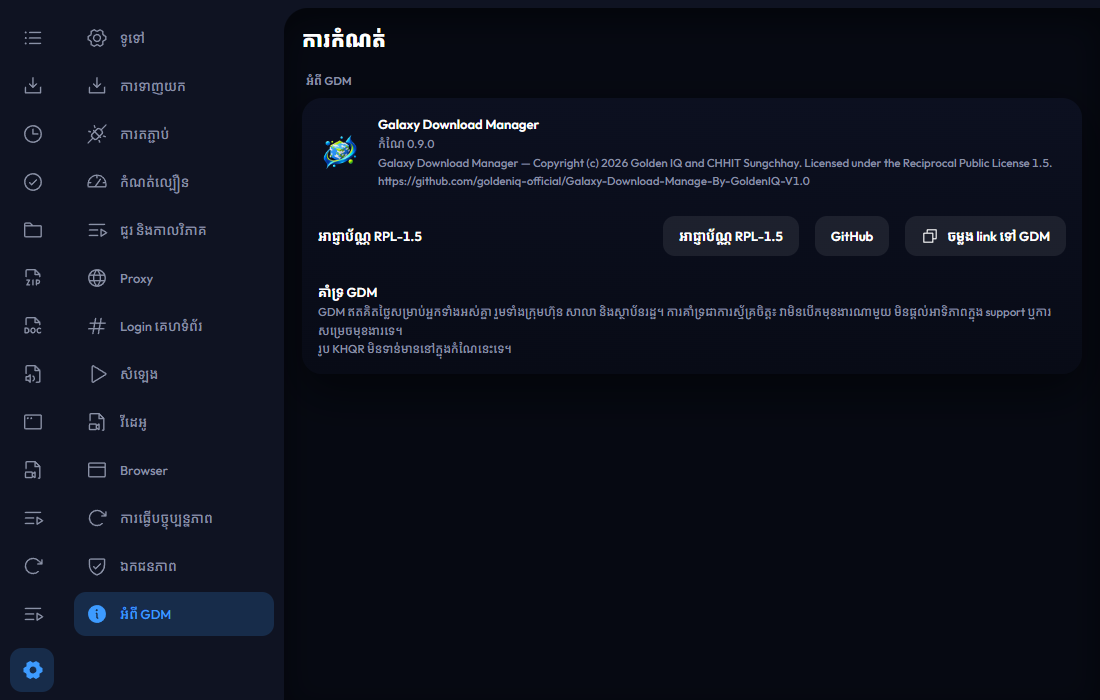
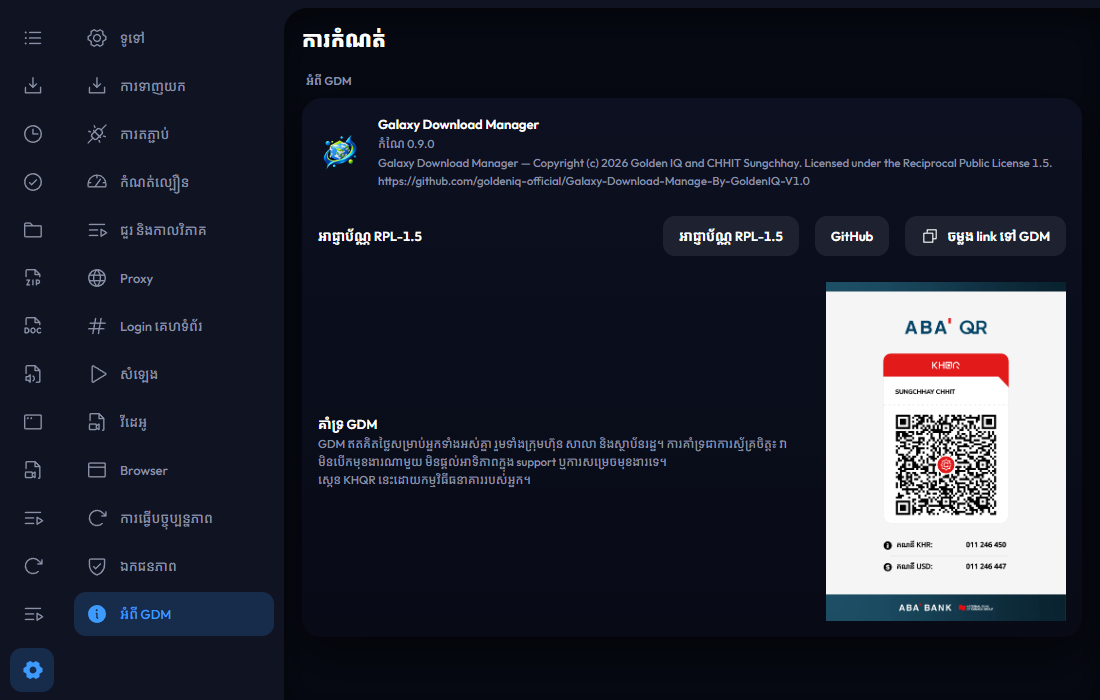
G8: owner's KHQR (ABA, SUNGCHHAY CHHIT) bundled at src/assets/khqr.png; shown in README and About (240 px, no network); test now always checks the image; evidence + decision

Changed region(s): [[0.2782, 0.39, 0.9891, 0.9], [0.2782, 0.6, 0.7109, 0.69]]

diff --git a/tests/ui.spec.ts b/tests/ui.spec.ts
@@ -238,7 +238,7 @@ test("G8 §21 M1: About shows the voluntary support block and loads nothing from
   await page.locator(".set .rail .nav").last().click();
   await expect(page.getByText("Support GDM")).toBeVisible();
   await expect(page.getByText(/unlocks no feature/)).toBeVisible();
-  if (process.env.G8_QR) await expect(page.locator("img[alt=KHQR]")).toBeVisible();
+  await expect(page.locator("img[alt=KHQR]")).toBeVisible();
   expect(outside).toEqual([]);
 });
 

diff --git a/src/Settings.tsx b/src/Settings.tsx
@@ -320,7 +320,7 @@ export function SettingsView() {
                 <small>{t("set.supportS")}</small>
                 <small>{t(KHQR ? "set.supportScan" : "set.supportNone")}</small>
               </div>
-              {KHQR && <img src={KHQR} alt="KHQR" width={180} height={180} />}
+              {KHQR && <img src={KHQR} alt="KHQR" width={240} height={339} />}
             </div>
           </Sec>}
         </div>

diff --git a/docs/evidence/G8.md b/docs/evidence/G8.md
@@ -47,4 +47,16 @@ Screenshot: `docs/evidence/g7-shots/set-about-km-{dark,light}.png` (folder probe
 - [x] ឯកសារ commit (README, About, services, sponsors, ចំណាំ OEM, PRIVACY)
 - [x] ពាក្យត្រូវ "ឥតគិតថ្លៃសម្រាប់គ្រប់គ្នា" និង LICENSE/NOTICE (council GO)
 - [x] Council ពិនិត្យរួច
-- [ ] រូប KHQR: រង់ចាំម្ចាស់ (មិនមែនលក្ខខណ្ឌ done របស់ G8; ការដាក់ = ចម្លងរូបទៅ `src/assets/khqr.png` + បើក comment ១ បន្ទាត់ក្នុង README)
+- [x] រូប KHQR: ម្ចាស់ផ្ដល់ `khqr.png` ថ្ងៃ 2026-11-13 (ABA KHQR, អ្នកទទួល SUNGCHHAY CHHIT = CHHIT Sungchhay សហម្ចាស់សិទ្ធិ, គណនី KHR និង USD) ⇒ `src/assets/khqr.png` (1010×1426, 156 KB), README បង្ហាញរូប, About 240×339 px
+
+## ក្រោយម្ចាស់ផ្ដល់ KHQR (2026-11-13)
+
+ម្ចាស់ដាក់ `khqr.png` នៅ root repo (ដូចគ្នានឹង `OneDrive\Pictures\khqr.png`, `cmp` SAME)។ ផ្លាស់ទៅ `src/assets/khqr.png`; README: បើកបន្ទាត់រូប; About: 180 px តូចពេកសម្រាប់ស្កេន ⇒ 240×339 (រក្សា ratio)។ Test `G8 §21 M1` ឥឡូវពិនិត្យ `<img alt=KHQR>` ជានិច្ច។
+
+| ពាក្យបញ្ជា | លទ្ធផល |
+|---|---|
+| `npx playwright test tests/ui.spec.ts -g "set-about\|G8"` | 5/5 PASS (រូបបង្ហាញ, គ្មាន request ក្រៅ origin, rule 8/axe/clip) |
+| `npx tsc --noEmit -p .`, `npx eslint src tests` | PASS |
+| `npx vite build` | PASS: `dist/assets/khqr-*.png` 156.17 kB (bundle ក្នុង app) |
+
+មិនបាន decode payload QR (គ្មាន decoder ដំឡើង, មិនបន្ថែម dependency): ពិនិត្យដោយភ្នែក (ឈ្មោះអ្នកទទួល, ABA, KHR/USD)។

diff --git a/docs/decisions.md b/docs/decisions.md
@@ -92,3 +92,4 @@
 | 2026-11-13 | G8 | រូប KHQR GDM មិនទាន់មាន (មានតែ KHQR Mazer Club = អ្នកទទួលផ្សេង) | មិនប្រើ QR ផ្សេង; README អត្ថបទតែប៉ុណ្ណោះ (comment បង្ហាញកន្លែងរូប); About បង្ហាញ "មិនទាន់មាន" ហើយរូបបង្ហាញស្វ័យប្រវត្តិពេលមាន <code>src/assets/khqr.png</code> (bundle ពេល build, គ្មាន network); សួរម្ចាស់ម្ដងនៅចុង goal | /goal G8 + council G8 r1 |
 | 2026-11-13 | G8 | ចំណាំ OEM/ហាង PC ដាក់ណា? | ផ្នែកមួយក្នុង <code>docs/services.md</code> (មិនបង្កើតឯកសារទី ៣): វាជាសេវាដូចគ្នា (M4 ⊂ សេវា) | Algorithm ជំហាន ២ |
 | 2026-11-13 | G8 | ពាក្យ "គ្មាន fork ឯកជន" / "កុំលក់ licence" | សរសេរជាដែនកំណត់សេវារបស់យើង ("យើងមិនផ្ដល់សេវា fork ឯកជន", "យើងមិនលក់ licence") មិនមែនការហាមលើអ្នកទទួល (RPL §3, §6.0 មិនអនុញ្ញាតបន្ថែមការរឹតបន្តឹង); កូដមុខងារតាមសំណូមពរបោះពុម្ពពេលប្រគល់ ឬមុនពេល RPL តម្រូវ (Deploy មុន) | Council G8 final #1 (NO-GO ⇒ កែ ⇒ GO) |
+| 2026-11-13 | G8 | ម្ចាស់ផ្ដល់ KHQR (ABA, SUNGCHHAY CHHIT) | ប្រើវាក្នុង README + About (bundle, គ្មាន network); ទំហំ About 240 px ដើម្បីស្កេនបាន | /goal G8 step 1-2 |
